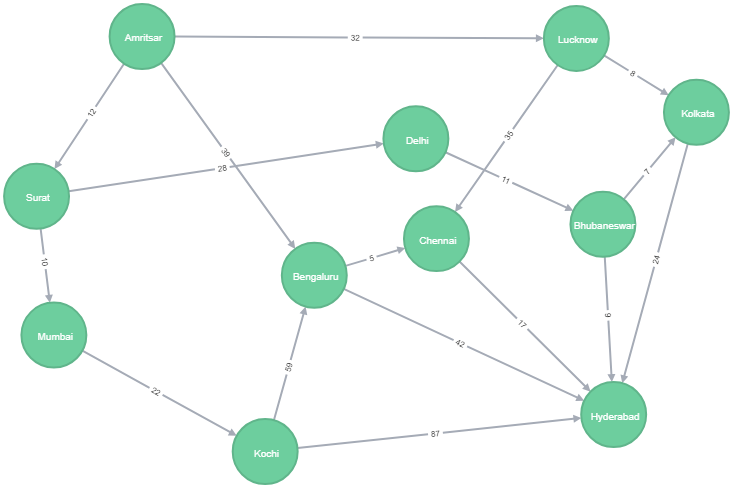
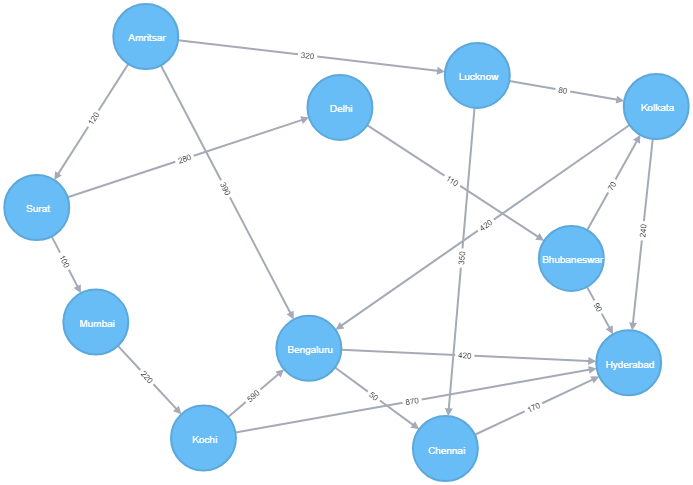
publishing shortest distance - 1st pass

diff --git a/_posts/articles/2018-05-08-neo4j-shortest-distance.md b/_posts/articles/2018-05-08-neo4j-shortest-distance.md
@@ -1,9 +1,9 @@
 ---
 layout: post
-title: "Practical graph algorithms with grapgh DB - Neo4j Part III"
-excerpt: "Common use cases and neo4j graph database for production"
+title: "Practical routing problems in graph - Neo4j Part III"
+excerpt: "Common graph algorithms with neo4j graph database and cypher"
 date: 2018-05-08
-tags: [tech, database, neo4j, graph, graphdatabase, cypher, query]
+tags: [database, neo4j, graph, algorithm, routing, graphdatabase, cypher]
 categories: articles
 image:
   feature: posts/neo4j/graph_header.jpg
@@ -12,32 +12,48 @@ share: true
 published: true
 ---
 
-**Note:** This article is currently incomplete & in-progress. It'll be updated soon.
-{: .notice--danger}
+This article is a continuation of the Neo4j database series. If you are coming here directly and not familiar with **`Neo4j`** database & **`Cypher`** query language, read these articles first.
 
-https://neo4j.com/blog/graph-search-algorithm-basics/
+* **[Introduction to graph database with Neo4j](/articles/neo4j-graph-database-1/)**
+* **[Introduction to Cypher query language](/articles/neo4j-graph-database-2/)**
 
-#### Importing RDBMS data
+Graph is a very popular and well established data structure/model in computer science, and it has practical application in many domains from data science, research, social networks, e-commerce & logistics to biology and more.
+
+Among the very popular application of graphs in everyday life, one is routing or navigation systems. In a navigation systems (for example, maps) all the points are the routes between them are perfectly represented with vertices and edges of a graph. Then different traversal algorithms like [DFS](https://en.wikipedia.org/wiki/Depth-first_search) or [BFS](https://en.wikipedia.org/wiki/Breadth-first_search) are applied to solve specific routing problems.
+
+Routing problems apply not only to maps, but also to data networks, social media and many other types of applications. Here, we'll look at a set of problems commonly known as _**shortest path problems**_, and see how easily they can be solved with neo4j database and cypher queries.
+
+#### A map of Indian cities
+
+To demonstrate the problem, we'll use a simplified (not-so-real) map of few Indian cities. The cities are connected with roads.
+
+First we'll need to setup the map with cities (nodes) and roads (relationships). The data is avaialable as CSV files, one for the [cities](/images/posts/neo4j/cities.csv) and the other for [roads](/images/posts/neo4j/roads.csv). We'll use the [load CSV](https://neo4j.com/docs/developer-manual/current/cypher/clauses/load-csv/) feature to load the data.
+
+The _cities.csv_ file has 2 columns, Id and Name but no headers. The _roads.csv_ file has 4 columns and has headers in first row. The columns are Id, FromCity, ToCity & DistanceKM. The Id from first file is used to map the cities in the second file (like FK-PK relationship). We use the Id from the second file to generate names for the roads as NH-{Id} since this Id is not referenced anywhere else.
+
+Below Cypher queries read the CSV files and load them into neo4j as nodes (:City) and relationships [:LINK]. Note that we are using local files here, and for that to work the files need to be saved inside the `/neo4j_root/import` directory. We could also refer the files from some http location.
 
 ```fsharp
-//csv with headers
-LOAD CSV WITH HEADERS FROM "file:///cities.csv"
+//read cities and load them as nodes in DB (file has no headers)
+LOAD CSV FROM "file:///cities.csv"
 AS line
-CREATE (:City { id: toInteger(line.Id), name: line.City })
+CREATE (:City { id: toInteger(line[0]), name: line[1] })
 
-//csv without headers
-LOAD CSV FROM "file:///paths.csv"
+//read the roads, map to cities and load as relationships
+LOAD CSV WITH HEADERS FROM "file:///paths.csv"
 AS line
-MATCH (c1:City { id: toInteger(line[1]) }),
-  (c2:City { id: toInteger(line[2]) })
-CREATE path = (c1) -[:LINK {name:'NH-' + line[0], distance: toInteger(line[3]) }]-> (c2)
+MATCH (c1:City { id: toInteger(line.FromCity) }),
+  (c2:City { id: toInteger(line.ToCity) })
+CREATE path = (c1) -[:LINK {name: 'NH-' + line.Id, distance: toInteger(line.DistanceKM) }]-> (c2)
 ```
 
-You can download the sample [cities.csv](/images/posts/neo4j/cities.csv) and [paths.csv](/images/posts/neo4j/paths.csv) files. Here is the actual graph creates
+Once the queries are run successfully, we get the complete map as a graph.
 
 ![Image](/images/posts/neo4j/cities.png)
 
-Queries
+#### Shortest path
+
+Cypher as a built-in `shortestpath()` function. We'll use that to find the shortest path between 2 cities viz. Amritsar and Hyderabad. We use a variable length pattern matching to get all possible roads from amritsar to hyderabad and then use the function to get the shortest one. See query below.
 
 ```fsharp
 //in-built shortest-distance = minimum hops
@@ -47,9 +63,13 @@ MATCH (c1:City {name: "Amritsar"}),
 RETURN path
 ```
 
-It returns nodes _"Amritsar --> Bengaluru --> Huderabad"_, with a total distance of 810km.
+It returns the path _"Amritsar --> Bengaluru --> Huderabad"_, with a total distance of 810km.
 
-For a real world _shortest path_ we'll need some calculations.
+Note that it returns the _shortest path_ that has _minimum number of hops_. It does not take the distance into calculation. This is the behavior of the default `shortestpath()` function and no custom property is used for the calculation. This is definitely not be the best solution for a map navigation problem, as the _"shortest path"_ is not actually the shortest one as per the distance traversed. But this is very useful in lot of situations like calculation the most efficient path to deliver data packets over a wired network (where no. of hops is more costly that distnace) or figuring out closest relation between two persons on a social network.
+
+#### Wighted shortest path - distance
+
+Now let's solve the original problem of shortest distance between 2 cities. What we do here is, find out all possible routes between the two then take the shortest one by distance. We use `REDUCE` to calculate the total distance in a route.
 
 ```fsharp
 //actual shortest-distance
@@ -59,7 +79,11 @@ WITH path, REDUCE (sum = 0, r IN road | sum + r.distance) AS dist
 ORDER BY dist
 LIMIT 1
 RETURN path
+```
 
+We can format the result a bit with cities passed through, the roads traversed (remember, they are named like NH-1 etc.) and the total distance. The `head()` function takes the first item in a list and `tail()` takes all but the first.
+
+```fsharp
 MATCH path = (:City {name: "Amritsar"}) -[road:LINK*]- (:City {name: "Hyderabad"})
 WITH path, REDUCE (sum = 0, r IN road | sum + r.distance) AS dist
 ORDER BY dist
@@ -75,13 +99,18 @@ It produces the following results:
 <br />**Distance:** 560 km
 {: .notice--success}
 
-lol - with road blocks
+**Note:** Here we have considered all the roads are two-way i.e. if there is a road from Delhi to Bhubaneswar, there is also a return way from Bhubaneswar to Delhi. If that is not true, and roads are one-way as shown in the graph diagram, we just need to make the MATCH pattern have a directed relationship to solve it. Now, when we make the MATCH pattern directed `()-[:LINK]->()`, we get most common variant of [Dijkstra's algorithm](https://en.wikipedia.org/wiki/Dijkstra%27s_algorithm) solved.
+{: .notice--info}
+
+#### With road blocks
 
 ```fsharp
 MATCH () -[r:LINK]-> ()
 WHERE r.name IN ['NH-3', 'NH-4']
 SET r.isBlocked = true
+```
 
+```fsharp
 MATCH path = (:City {name: "Amritsar"}) -[road:LINK*]- (:City {name: "Hyderabad"})
 WHERE ALL (r IN road WHERE NOT exists(r.isBlocked)) //all roads are non-blocked
 WITH path, REDUCE (sum = 0, r IN road | sum + r.distance) AS dist
@@ -92,29 +121,33 @@ RETURN REDUCE (cities = head(nodes(path)).name, n IN tail(nodes(path)) | cities 
   dist + ' km' AS Distance
 ```
 
-fastest route
-
-```fsharp
-//roads with average speed
-LOAD CSV FROM "file:///paths2.csv"
-AS line
-MATCH (c1:City { id: toInteger(line[1]) }),
-  (c2:City { id: toInteger(line[2]) })
-CREATE path = (c1) -[:LINK {avgSpeed: toFloat(line[4]), name:'NH-' + line[0], distance: toInteger(line[3]) }]-> (c2)
-
-//fastest route
-MATCH path = (:City {name: "Amritsar"}) -[road:LINK*]- (:City {name: "Hyderabad"})
-WHERE ALL (r IN road WHERE NOT EXISTS (r.isBlocked))
-WITH path, REDUCE (sum = 0, r IN road | sum + (r.distance / r.avgSpeed)) AS time
-ORDER BY time
-LIMIT 1
-RETURN REDUCE (cities = head(nodes(path)).name, n IN tail(nodes(path)) | cities + '->' + n.name) AS Route,
-  REDUCE (rd = head(relationships(path)).name, r IN tail(relationships(path)) | rd + ' > ' + r.name) AS Roads,
-  toString((round(time * 100))/100) + ' hr' AS TotalTime
-```
-
 It produces the following results:
 <br />**Route:** Amritsar->Surat->Delhi->Bhubaneswar->Hyderabad
 <br />**Roads:** NH-2 > NH-6 > NH-8 > NH-10
 <br />**Distance:** 600 km
 {: .notice--success}
+
+fastest route
+
+```fsharp
+//roads with average speed
+LOAD CSV WITH HEADERS FROM "file:///paths2.csv"
+AS line
+MATCH (c1:City { id: toInteger(line.FromCity) }),
+  (c2:City { id: toInteger(line.ToCity) })
+CREATE path = (c1) -[:LINK {avgSpeed: toFloat(line.SpeedKmph), name: 'NH-' + line.Id, distance: toInteger(line.DistanceKM) }]-> (c2)
+
+//fastest route
+MATCH path = (:City {name: "Amritsar"}) -[road:LINK*]-> (:City {name: "Hyderabad"})
+WHERE ALL (r IN road WHERE NOT EXISTS (r.isBlocked))
+WITH path, REDUCE (sum = 0, r IN road | sum + (r.distance / r.avgSpeed)) AS time
+ORDER BY time
+RETURN REDUCE (cities = head(nodes(path)).name, n IN tail(nodes(path)) | cities + '->' + n.name) AS Route,
+  REDUCE (rd = head(relationships(path)).name, r IN tail(relationships(path)) | rd + ' > ' + r.name) AS Roads,
+  toString((round(time * 100))/100) + ' hr' AS TotalTime
+```
+
+![Image](/images/posts/neo4j/all-route-results.png)
+
+**Note:** I'll also publish another post in the Neo4j series and discuss about some common considerations for production deployment of Neo4j. Do come back later for the next post.
+{: .notice--info}

diff --git a/_posts/articles/2018-05-07-neo4j-graph-database-2.md b/_posts/articles/2018-05-07-neo4j-graph-database-2.md
@@ -42,7 +42,7 @@ RETURN p.name, m.title
 
 Here, `:Person` and `:Movie` are labels of nodes. The relationship is `:ACTED_IN` and `p`, `r`, `m` are variables representing the corresponding nodes and relationship.
 
-The Cypher keywords (like MATCH, RETURN) are not case-sensitive, but it's convention to write them in upper case. But the property, labels & relationships are case-sensitive. Also by convention, property names, variables and functions like count(), exists() are written in lowercase/camel-case.
+The Cypher keywords (like `MATCH`, `RETURN`) are not case-sensitive, but it's general convention to write them in upper case. On the other hand, the property, labels & relationships are case-sensitive. Also by convention, property names, variables and functions like `count()`, `exists()` are written in lowercase/camel-case.
 
 **Path**. A whole relationship sequence, including the nodes and relationships, is called a path. The `path` in above query is just a variable name for the path expressions _(p:Person) -[r:ACTED_IN]-> (m:Movie)_ though.
 
@@ -84,6 +84,8 @@ RETURN path
 MERGE (c:Character {name: "Sabu"})
 RETURN c
 ```
+
+`CREATE UNIQUE` can be used to make sure data is not created if it already exists.
 
 **Note:** When any data is inserted into the database, neo4j creates an internal `<id>` property which has incremental integer value, starting at 0. It is unique across all nodes and cannot be customized. For querying, the value can be fetched with `id(n)` function.
 {: .notice--info}
@@ -140,19 +142,23 @@ MATCH
 RETURN m.title AS Movie, collect(p.name) AS CoActors, count(p) + 1 AS TotalCast
 
 //UNION - get directors of all movies by Charlize Theron/Demi Moore. Union All to include duplicates
-MATCH (Person {name:'Charlize Theron'}) -[:ACTED_IN]-> (m:Movie) <-[:DIRECTED]- (p:Person)
+MATCH (:Person {name:'Charlize Theron'}) -[:ACTED_IN]-> (m:Movie) <-[:DIRECTED]- (p:Person)
 Return m.title AS Movie, p.name AS Director, 'Charlize Theron' AS Actress
 UNION
-MATCH (Person {name:'Demi Moore'}) -[:ACTED_IN]-> (m:Movie) <-[:DIRECTED]- (p:Person)
+MATCH (:Person {name:'Demi Moore'}) -[:ACTED_IN]-> (m:Movie) <-[:DIRECTED]- (p:Person)
 Return m.title AS Movie, p.name AS Director, 'Demi Moore' AS Actress
 
 //Get all nodes that are directly related (in any direction) to Robin Williams
 MATCH (Person{name:'Robin Williams'})-[]-(x) RETURN x
+
+//find what role Tom Cruise played in movie Matrix
+MATCH (:Person {name: 'Tom Cruise'}) -[r]-> (:Movie {title: 'The Matrix'})
+RETURN type(r)
 ```
 
 ###### Query chaining
 
-Sometimes there are more than one parts in a query and we want to pass or _pipe_ the result from a MATCH to the next part of the query. Using the keyword `WITH` we can do that. Using WITH, we can process output from the previous part before passing on to the following part of query.
+Sometimes there are more than one parts in a query and we want to pass or _pipe_ the result from a MATCH to the next part of the query. Using the keyword `WITH` we can do that. Using WITH, we can process output from the previous part before passing on to the following part of query. It can be though to be a type of RETURN that passes data to next query part rather than the result set.
 
 Look at the following query, we want to get all the movies that Charlize Theron acted in, ordered by movie title. We use `collect()` function to create a comma separated list. Since we could not use OREDR BY on movie title at the end (as it does not exist anymore after collect() as Movies), we pass along the movie variable and ORDER BY it before passing it to the RETURN.
 
@@ -165,7 +171,7 @@ RETURN collect(movie.title) AS Movies
 
 ###### Variable length pattern matching
 
-[Variable length pattern matching](https://neo4j.com/docs/developer-manual/current/cypher/syntax/patterns/#cypher-pattern-varlength) is used when the level of relationship, or number of hops between the nodes can be variable. A variable length relationship is indicated with an asterix followed by a number pattern. In simplest form, `(x)-[*2]->(y)` denotes relationship between node x and y with exactly 2 relationships/hops in between, which is same as (x)->()->(y).
+[Variable length pattern matching](https://neo4j.com/docs/developer-manual/current/cypher/syntax/patterns/#cypher-pattern-varlength) is used when the level of relationship, or number of hops between the nodes can be variable. A variable length relationship is indicated with an asterisk (*) followed by a number pattern. In simplest form, `(x)-[*2]->(y)` denotes relationship between node x and y with exactly 2 relationships/hops in between, which is same as (x)->()->(y).
 
 To have a variable length pattern, a range is used. For example, `[*1..5]` indicates relationship with 1-5 hops. `[*3..]` and `[*..3]` indicates minimum 3 and maximum 3 hops respectively. To indicate any/infinite number of hops `[*]` is used. Minimum hops by default is 1, but 0 can also be used to indicate no hops or the same node, e.g. in case of `(a)-[*0..1]-(b)`, a and b can be the same node as well!
 
@@ -183,9 +189,9 @@ MATCH (p:Person {name: 'Lily'}) -[:KNOWS*2..5]-> (foaf)
 WHERE NOT ((p) -[:KNOWS]-> (foaf))
 RETURN p, foaf
 // ^ infinite level can be used [:KNOWS*], but query might be super expensive
-//just a related query, find common friends between Maggie & Lucie
-MATCH (:Person {name: 'Maggie'}) -[:KNOWS]- (cf:Person) -[:KNOWS]- (:Person {name: 'Lucie'})
-RETURN cf
+//just a related query, find mutual friends between Maggie & Lucie
+MATCH (:Person {name: 'Maggie'}) -[:KNOWS]- (mf:Person) -[:KNOWS]- (:Person {name: 'Lucie'})
+RETURN count(mf) AS TotalMFs, collect(mf.name) AS MutualFriends
 ```
 
 When finding relationships with multiple hops, neo4j avoids linking back to same node. So that it is not like _(n1) -[:KNOWS]- (n2) -[:KNOWS]- (n1)_. Also, same nodes are also not included in result set, but can be added explicitly. Following is a sample query and the result set.
@@ -283,7 +289,7 @@ RETURN n.name, labels(n)
 
 Since `NULL` is not a allowed value for a property, setting null to a property removes it from the node. But it's always better to use `REMOVE` to remove a property as it is more intuitive and makes it clear that the property is not removed by mistake.
 
-**Note:** I'll publish another post in the Neo4j series and discuss about some common scenarios (e.g. shortest path calculations, importing RDBMS data etc.) and considerations for production deployment. Do come back later for the next post.
+**Note:** In the next article we'll look at some **[practical routing problems in graph](/articles/neo4j-shortest-distance/)** and how to solve them with Neo4j database.
 {: .notice--info}
 
 #### References

diff --git a/_posts/articles/2018-05-04-neo4j-graph-database-1.md b/_posts/articles/2018-05-04-neo4j-graph-database-1.md
@@ -57,7 +57,9 @@ Some very common **use cases** of graph databases are - social networks, recomme
 
 **`Neo4j`** is the oldest & most widely used graph database[*](https://db-engines.com/en/ranking/graph+dbms) in market that has all the above properties. It supports [ACID](https://en.wikipedia.org/wiki/ACID) transactions. It also provides great real-like visualizations to see and interact with data, comes with many other great features, and offers a rich set of REST APIs that enable interacting with data. With this available, virtually all programming languages & platforms can use neo4j. It is open source on [GitHub](https://github.com/neo4j/neo4j).
 
-Neo4j follows the **`Property Graph Model`**. That states, relationships are always between a pair of nodes and are directed. Properties are also stored with nodes & relationships. It's also called **`Labelled Property Graph`** as the nodes can have one or more `labels`. Labels are like tags, which generally talk about the _"type of node"_. With this, we can identify and group nodes. Labels can be thought to be somewhat relatable to tables in relational databases (because that is how we group similar data there), but actually they are not. Also, nodes can have multiple labels, like a node can be person, teacher & photographer.
+Neo4j data model has 4 main constructs - **nodes, relationships, properties & labels**.
+
+Neo4j follows the **`Property Graph Model`**. That states, relationships are always between a pair of nodes and are directed. Properties are also stored with nodes & relationships. It's also called **`Labeled Property Graph`** as the nodes can have one or more `labels`. Labels are like tags, which generally talk about the _"type of node"_. With this, we can identify and group nodes. Labels can be thought to be somewhat relatable to tables in relational databases (because that is how we group similar data there), but actually they are not. Also, nodes can have multiple labels, like a node can be person, teacher & photographer.
 
 ![Image](/images/posts/neo4j/pgm.png)
 
@@ -90,10 +92,10 @@ Here we'll look at some common types of databases and when it _"might"_ be more 
 
 <u>Relational database</u>
 
-Relational databases like `MySQL`, `Oracle`, `SQL Server` etc. works really well, when storage & data retrieval needs align with their capabilities. They are great at maintaing fixed structure data and running table-level queries with not-so-many relationships between big set of tables. Beyond that, the queries with lot of joins tends to degrade in performance. Prefer it when
+Relational databases like `MySQL`, `Oracle`, `SQL Server` etc. works really well, when storage & data retrieval needs align with their capabilities. They are great at maintaining fixed structure data and running table-level queries with not-so-many relationships between big set of tables. Beyond that, the queries with lot of joins tends to degrade in performance. Prefer it when
 
 1. Data is well defined & fixed structured, with limited level of pre-defined relationships (decided at design time)
-2. Lot of column based aggregations are used (e.g. sum, average, standard deviation etc.), as column-wise retreival is pretty fast
+2. Lot of column based aggregations are used (e.g. sum, average, standard deviation etc.), as column-wise retrieval is pretty fast
 
 <u>Document database</u>
 
@@ -104,7 +106,7 @@ Document databases like `MongoDB`, `Couchbase` stores data in JSON-like format, 
 
 <u>Graph database</u>
 
-Both the above type of database performs very poorly when data has multi-level arbitrary relationships. Graph data performs really well when we want to establish relationships among any arbitrary (not very closely related or obvious) set of data. It can traverse the graph structure and find relationships and data spread across many nodes. With more hops (traversing from one node to another), the speed decreases, but not much.
+Both the above type of database performs very poorly when data has multi-level arbitrary relationships. Graph data performs really well when we want to relate among arbitrary (not very closely related or obvious) set of data with semantically rich & diverse set of relationships. It can traverse the graph structure and find relationships and data spread across many nodes. With more hops (traversing from one node to another), the speed decreases, but not much.
 
 It works really well when we have queries like (e.g. around an e-commerce system)
 
@@ -113,7 +115,7 @@ It works really well when we have queries like (e.g. around an e-commerce system
 * _"Who shopped last week and bough most items common as Sumit?"_
 * _"Is there any relationship between entity X and Y, and if yes, how?"_
 
-Other type of databases also provide great value in specific use-cases, like <u>key-value</u> databases (like `Redis`, `Memcached`) for caching, <u>text-search</u> databases (like `Elasticsearch`, `Solr`) when we want to search text data with arbitrary keywords or phrases etc. [This](https://neo4j.com/blog/aggregate-stores-tour/) article also provides  quick com[arative study.]
+Other type of databases also provide great value in specific use-cases, like <u>key-value</u> databases (like `Redis`, `Memcached`) for caching, <u>text-search</u> databases (like `Elasticsearch`, `Solr`) when we want to search text data with arbitrary keywords or phrases etc. [This](https://neo4j.com/blog/aggregate-stores-tour/) article also provides quick comparative study.
 
 **Note:** In the next section, we'll see **[how to work with graph data in Neo4j with Cypher](/articles/neo4j-graph-database-2/)**. We'll use Cypher query language to fetch & update data, build index and much more.
 {: .notice--info}

diff --git a/_posts/articles/2018-05-09-neo4j-graph-database-4.md b/_posts/articles/2018-05-09-neo4j-graph-database-4.md
@@ -1,6 +1,6 @@
 ---
 layout: post
-title: "Some scenarios and considerations - Neo4j Part IV"
+title: "Some common scenarios and considerations - Neo4j Part IV"
 excerpt: "Common use cases and neo4j graph database for production"
 date: 2018-05-09
 tags: [tech, database, neo4j, graph, graphdatabase, cypher, query]
@@ -57,6 +57,8 @@ Graph database book, chapter 3 - 5
 * Shortest path
 * DFS
 * BFS
+
+Learning neo4j book, chapter 6
 
 #### Neo4j for production
 
